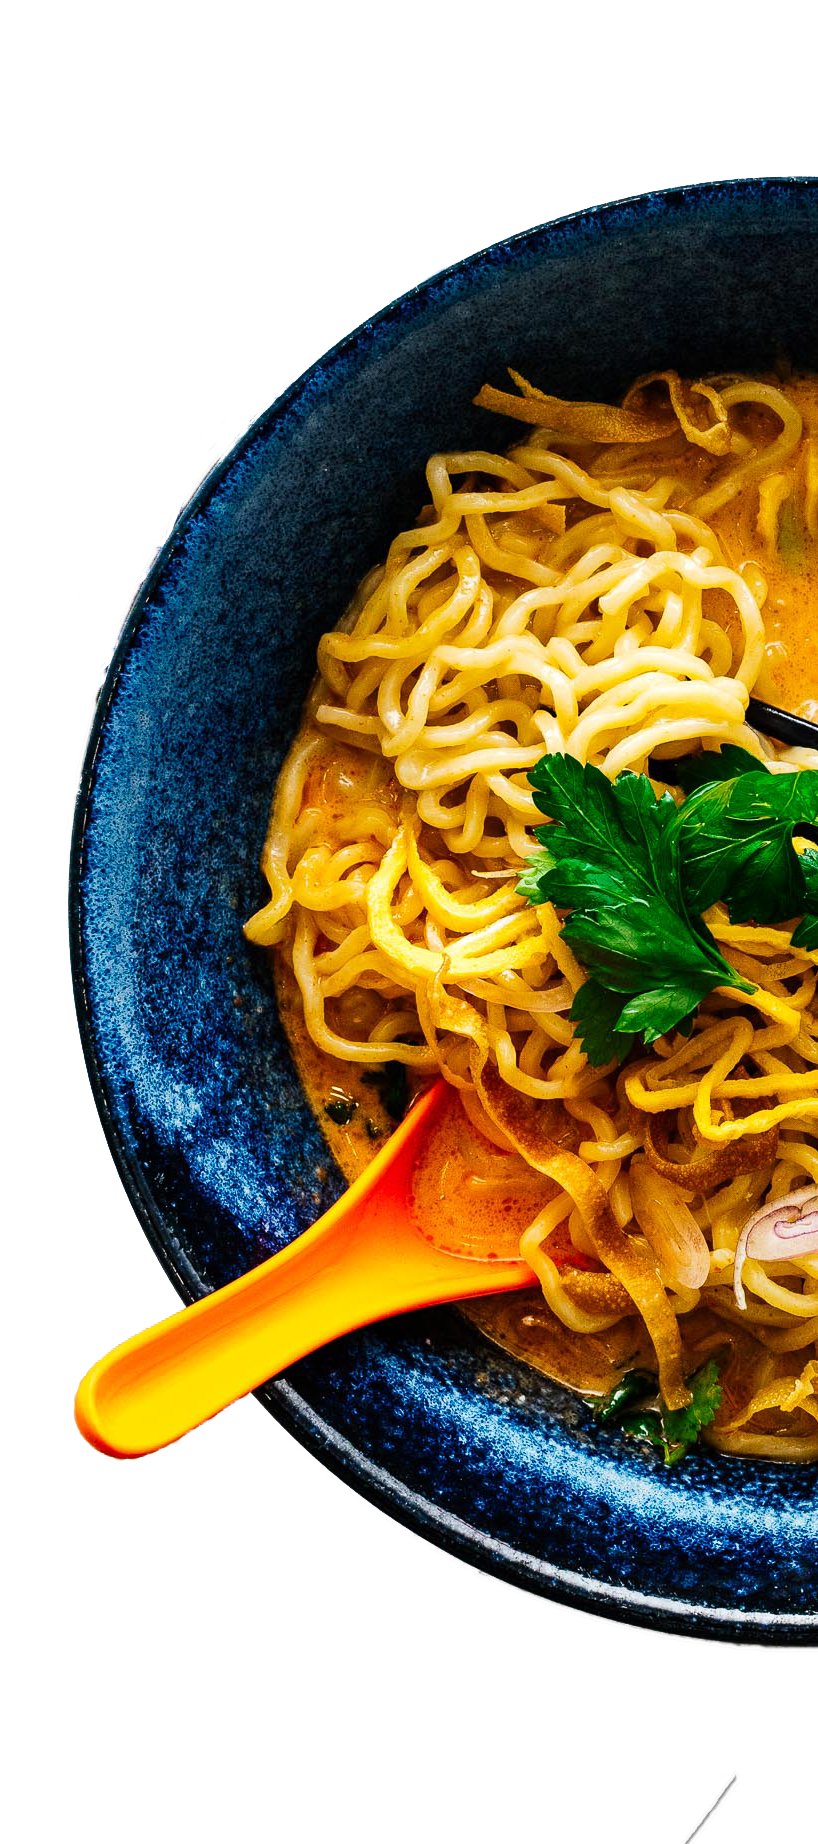
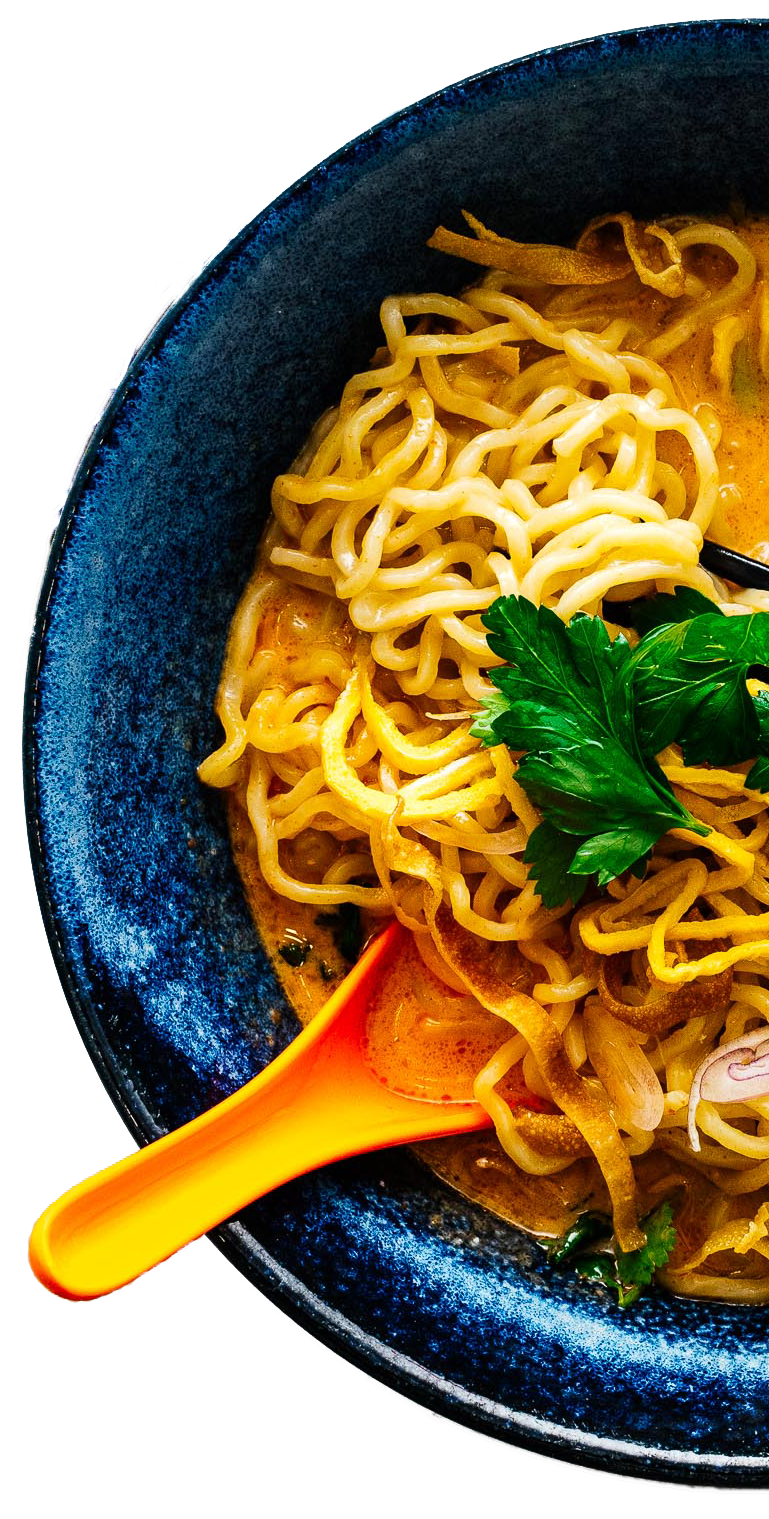
mobile first

diff --git a/index.html b/index.html
@@ -18,7 +18,7 @@
         
         <header class="header">
             <nav class="sidebar">
-                <a href="#">
+                <a href="index.html">
                     <img src="media/khao-wok.svg" class="logo">
                 </a>
             </nav>

diff --git a/css/main.css b/css/main.css
@@ -52,7 +52,7 @@ ul {
 
 .wok {
 
-    margin: 0;
+    margin-top: 10%;
     float: right;
     width: 40%;
 }
